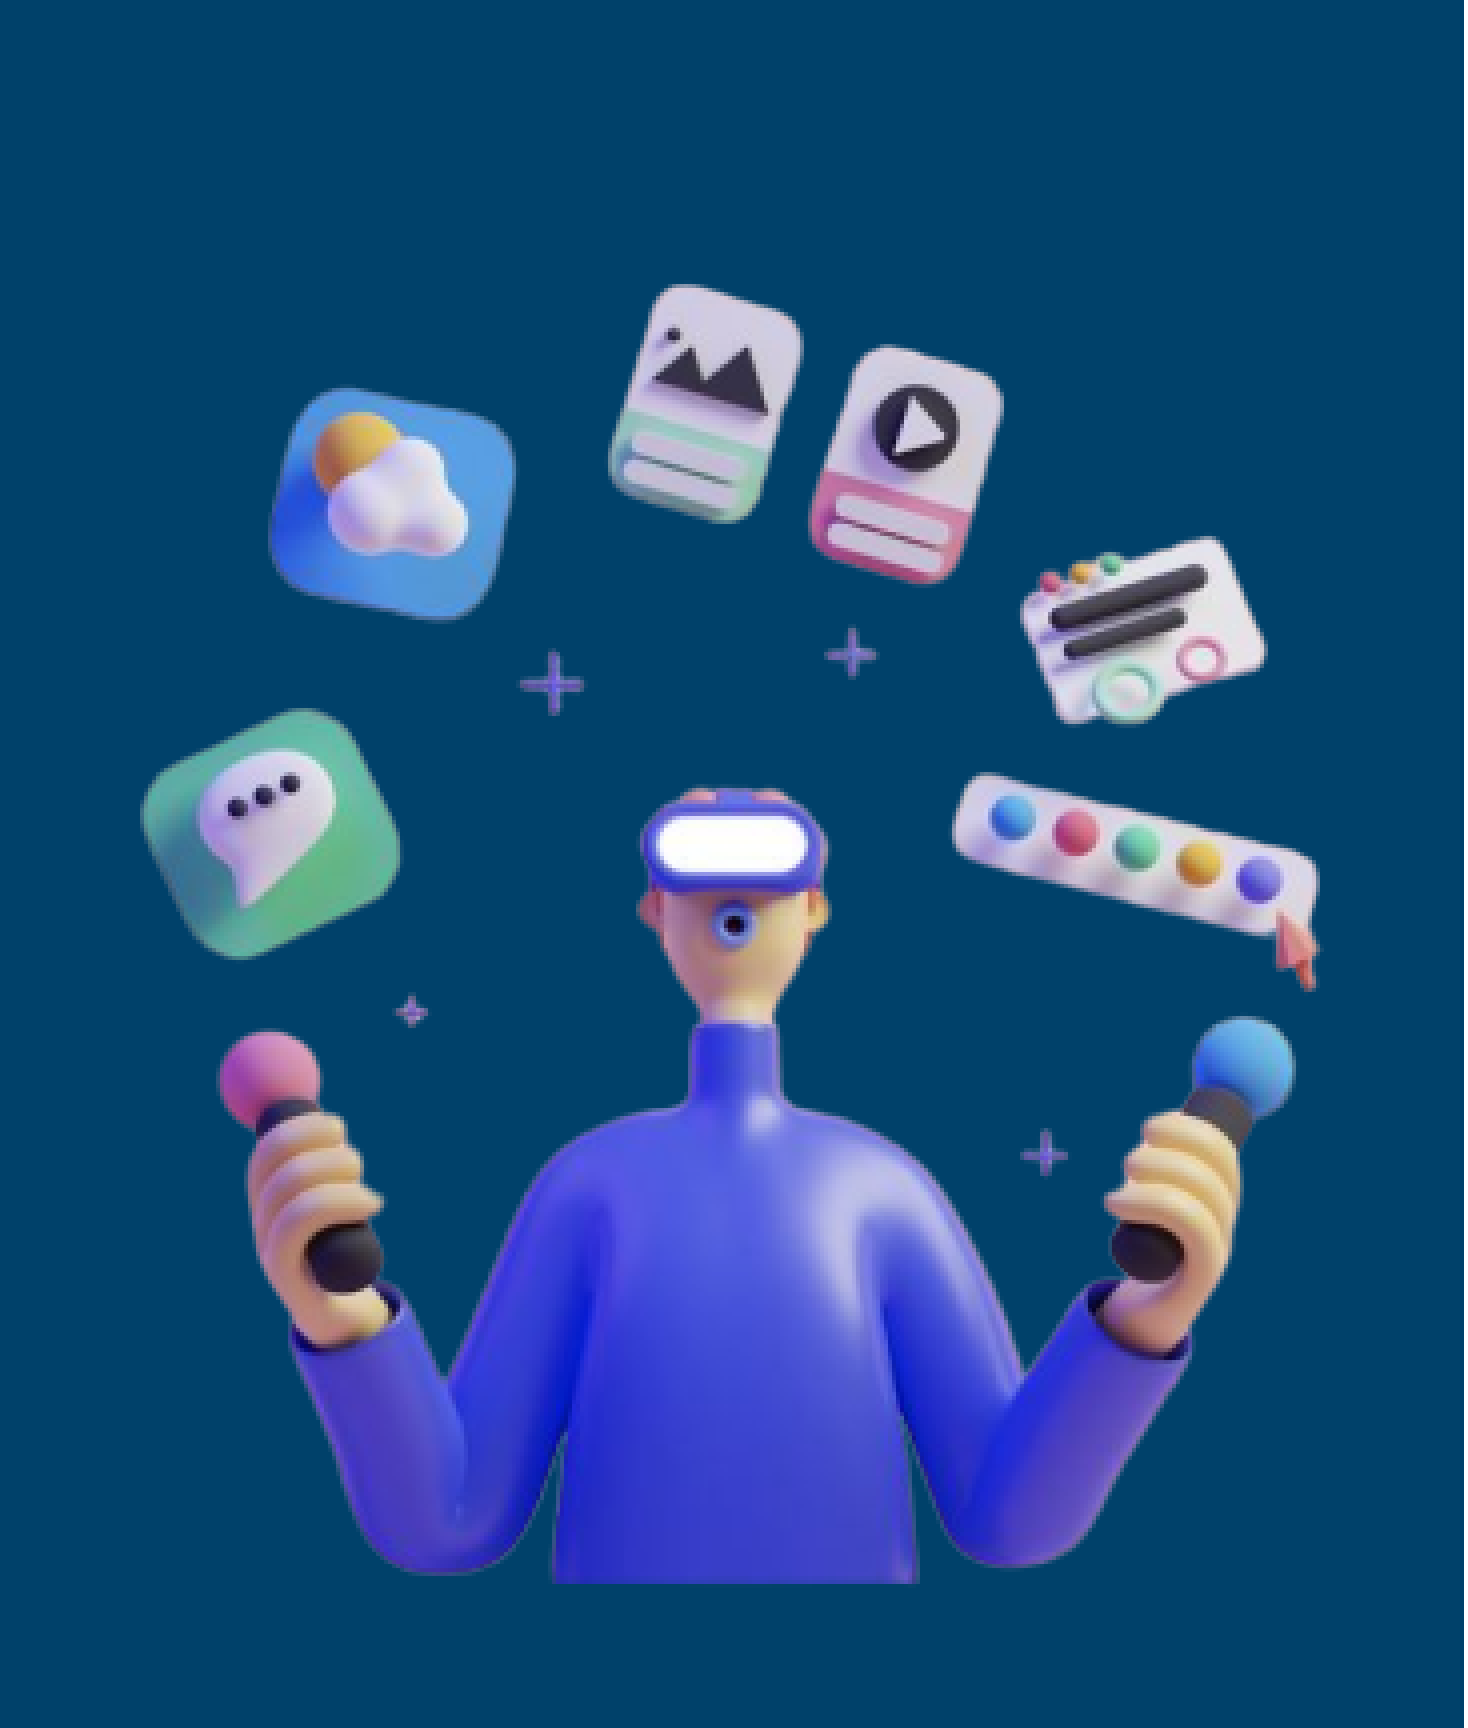
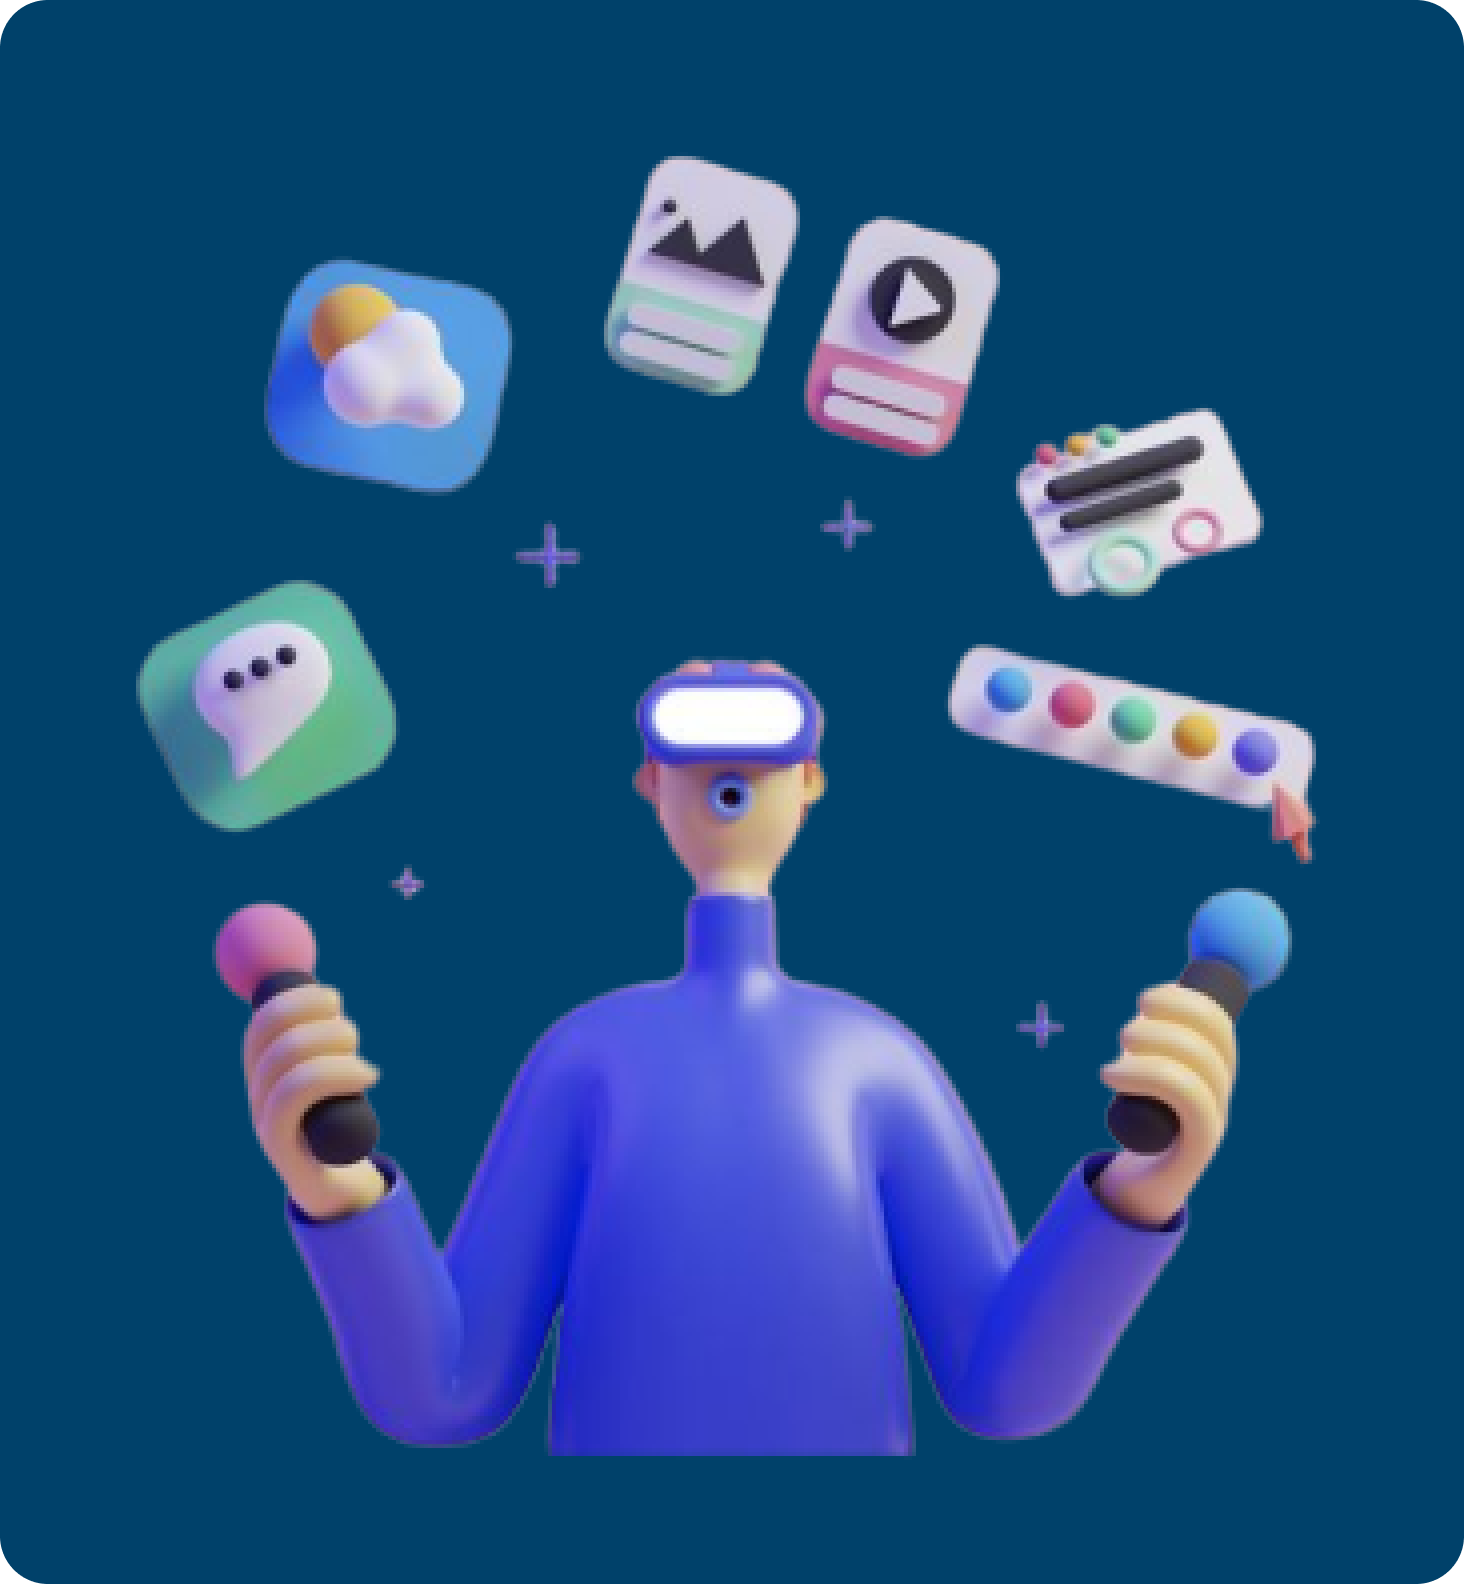
mengubah assets di login

diff --git a/lib/ui/pages/authentication/login_page.dart b/lib/ui/pages/authentication/login_page.dart
@@ -31,11 +31,9 @@ class LoginPage extends StatelessWidget {
           crossAxisAlignment: CrossAxisAlignment.start,
           children: [
             Padding(
-              padding: const EdgeInsets.only(bottom: 10, left: 5, right: 5),
-              child: ClipRRect(
-                  borderRadius: BorderRadius.circular(12),
-                  child:
-                      Center(child: Image.asset('assets/illustration/vr.png'))),
+              padding:
+                  const EdgeInsets.only(bottom: 10, left: 5, right: 5, top: 5),
+              child: Center(child: Image.asset('assets/illustration/vr.png')),
             ),
             Center(
               child: Text(
